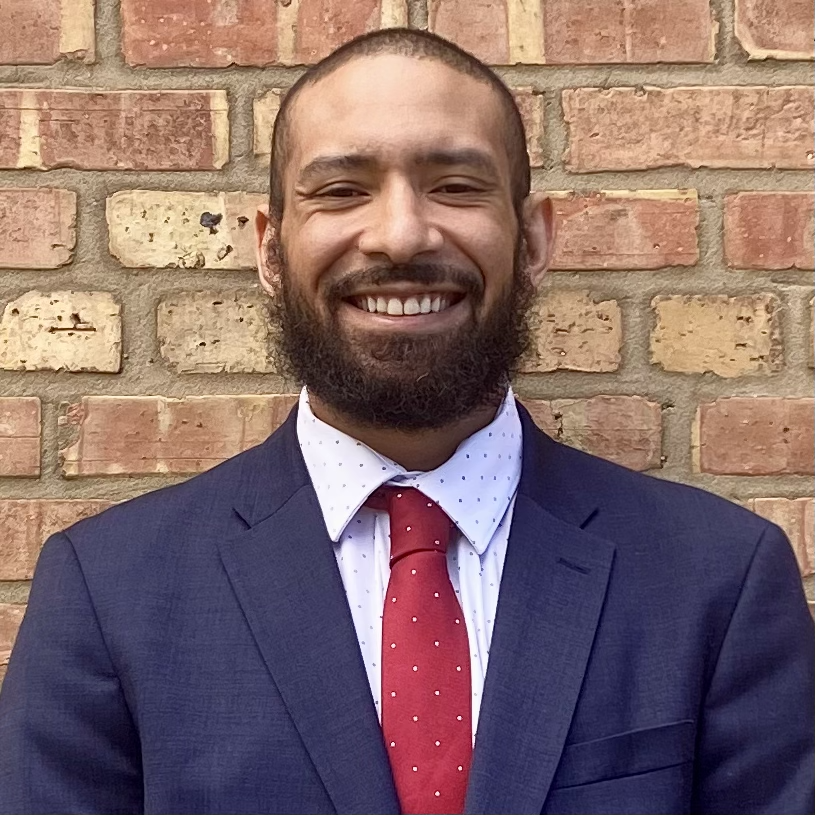
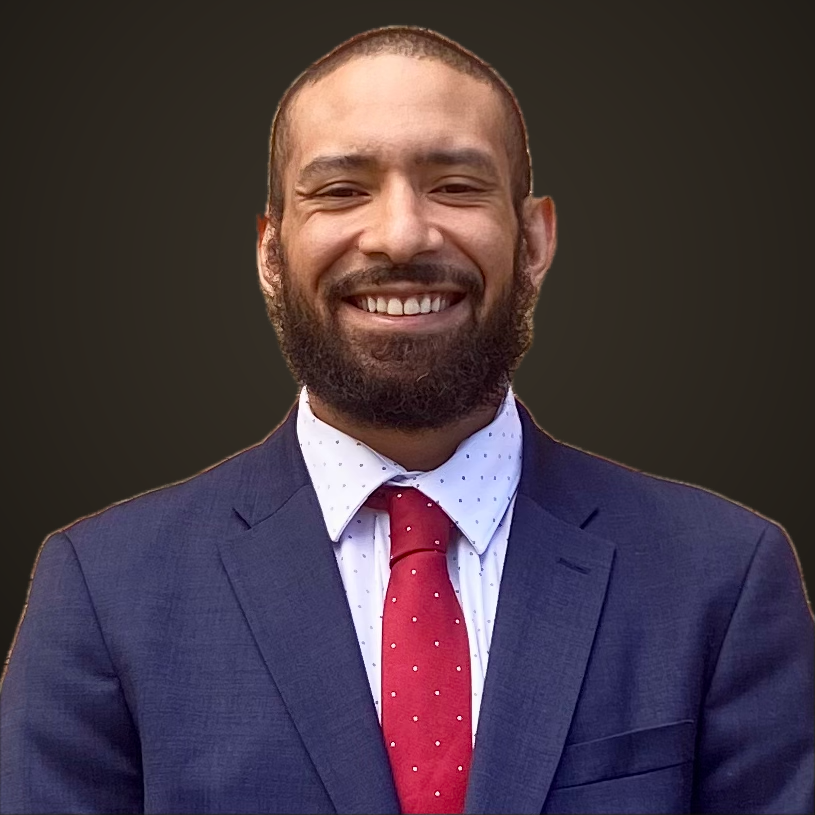
Add 'Systems I build and run' (Simply Digital OS, Probate Pros, SQUATTERS, Bagchaser) + clean studio headshot background

diff --git a/index.html b/index.html
@@ -61,6 +61,7 @@ li::before{content:"";position:absolute;left:2px;top:9px;width:7px;height:7px;bo
 .final{text-align:center;padding:80px 26px;background:linear-gradient(180deg,var(--ink),var(--ink2))}
 .final h2{font-size:36px;max-width:640px;margin:0 auto}.final p{color:var(--text2);font-size:18px;margin:16px auto 28px;max-width:540px}
 footer{border-top:1px solid var(--line);padding:34px 0;color:var(--text3);font-size:13.5px;text-align:center}
+.systems-grid{display:grid;grid-template-columns:1fr 1fr;gap:16px}@media(max-width:760px){.systems-grid{grid-template-columns:1fr}}.sys{background:var(--panel);border:1px solid var(--line);border-radius:14px;padding:22px 24px}.sys .st{font-family:'Inter';font-size:10px;letter-spacing:.1em;text-transform:uppercase;font-weight:700;padding:3px 9px;border-radius:20px;display:inline-block;margin-bottom:11px}.sys .st.live{background:rgba(123,216,143,.14);color:var(--green)}.sys .st.build{background:rgba(212,166,75,.14);color:var(--gold)}.sys h3{font-family:'Inter';font-weight:700;font-size:18px;margin-bottom:8px}.sys p{font-size:14px;color:var(--text2)}.sys p em{color:var(--gold2);font-style:normal}
 </style></head><body>
 <header><div class="wrap nav"><div class="brand">Eddie J. <span>Smith</span></div><a class="btn btn-gold" href="#audit">Get the Owner's Math Audit</a></div></header>
 <section class="hero"><div class="wrap hero-grid">
@@ -80,6 +81,7 @@ footer{border-top:1px solid var(--line);padding:34px 0;color:var(--text3);font-s
 
 <section class="s"><div class="wrap"><div class="s-head"><div class="eyebrow">Proof</div><h2>Why me — and why it&#x27;s hard to copy</h2><p>Plenty of people can claim one of these. The rare part is one person carrying all four at once: the MBA strategy brain to frame the problem, the CFO discipline to grade it like a P&amp;L, the engineering hands to ship the AI system, and 15–20x ROAS proof in the exact regulated verticals where it&#x27;s hardest to win and easiest to break compliance. I don&#x27;t advise on AI — I ship it. Three production systems are live right now. That&#x27;s skin in the game a deck-selling consultant structurally can&#x27;t match: I build the thing, I run it, and I carry the downside when it has to perform.</p></div><div class="proof"><div class="pf cash"><div class="tag">Cash-verified</div><p>a $99 prepaid clinic offer I built collected $10,494 in actual revenue</p></div><div class="pf cash"><div class="tag">Cash-verified</div><p>one HVAC client grew revenue +432% on 27% less ad spend</p></div><div class="pf modeled"><div class="tag">Modeled / programmatic</div><p>a $100K+ campaign drove 8,700+ patient visits at -30% cost per lead; tracked programs returned up to ~8,000% ROI ($1K in to ~$80K in tracked sales); one client scaled past $250K+ MRR</p></div><div class="pf cash"><div class="tag">Cash-verified</div><p>I label every number honestly — cash-verified vs. modeled — because the whole brand is built on telling you the truth, even against my own wallet</p></div></div></div></section>
 
+<section class="s" id="systems"><div class="wrap"><div class="s-head"><div class="eyebrow">Built in public</div><h2>Systems I build and run — not slides.</h2><p>I don't advise on AI from the sidelines. I architect and operate real systems. A few I'm building and running right now:</p></div><div class="systems-grid"><div class="sys"><span class="st live">Live in production</span><h3>Simply Digital OS</h3><p>The AI revenue engine behind my agency — 100+ live endpoints running intake, ad optimization, reporting, and self-learning, deployed and running every day.</p></div><div class="sys"><span class="st live">Live</span><h3>Probate Pros</h3><p>A custom AI operating system for an inherited-property business — multi-source intake, 0&ndash;100 lead scoring, and real-time speed-to-lead.</p></div><div class="sys"><span class="st build">In build</span><h3>SQUATTERS</h3><p>A vertical super-app and system of record for off-market real-estate investing — free education, a deal network, AI deal tools, and a capital marketplace. <em>Squat it. Fund it. Own it.</em></p></div><div class="sys"><span class="st build">In build</span><h3>Bagchaser</h3><p>An algorithmic trading platform — auto-trading a logged, rules-based strategy with a verifiable track record, plus a gamified learn-to-trade simulator.</p></div></div></div></section>
 <section class="s"><div class="wrap"><div class="s-head"><div class="eyebrow">The model</div><h2>From free to fully done-for-you</h2></div><div class="ladder"><div class="rung"><div class="tier">Free</div><div><div class="nm">The Local Lead Gen Playbook</div><div class="ds">My newsletter and public teardowns — how to see what your marketing actually turns into in booked revenue, and where AI takes the manual work off your plate. Read how I think before you pay me a dollar.</div></div><div class="pr">$0</div></div><div class="rung"><div class="tier">Low</div><div><div class="nm">Self-Serve Teardown + Templates</div><div class="ds">The Owner&#x27;s Math worksheet, a paid 1-page teardown of your current spend, and the mini-course. Fast, low-cost proof that the measurement standard is real — and that your current numbers are lying to you.</div></div><div class="pr">Productized</div></div><div class="rung mid"><div class="tier">Mid</div><div><div class="nm">The Owner&#x27;s Math Audit</div><div class="ds">The paid front door, and the recommended first step. In one week I map exactly what $1 of your marketing turns into on the other side, quantify every leak, and hand you the 3 highest-ROI moves plus a 90-day roadmap. This is where almost everyone should start.</div></div><div class="pr">$1,500–$2,500</div></div><div class="rung"><div class="tier">High</div><div><div class="nm">Strategy Sprint + Fractional CMO</div><div class="ds">When the audit shows the moves are worth real money, I lead them — a focused Strategy Sprint, then an ongoing Fractional CMO retainer. Capital allocated across human and AI execution, reported in Owner&#x27;s Math, not vanity metrics.</div></div><div class="pr">Retainer</div></div><div class="rung"><div class="tier">Ultra</div><div><div class="nm">Done-For-You AI Growth System</div><div class="ds">I build the full compliant, AI-powered growth system and operate it — intake, follow-up, attribution, reporting — engineered and run by me, with skin in the game. The version where you buy the operator who carries the downside, not a vendor who ships and leaves.</div></div><div class="pr">Build + managed ops</div></div></div></div></section>
 
 <section class="s" id="audit"><div class="wrap"><div class="wedge">